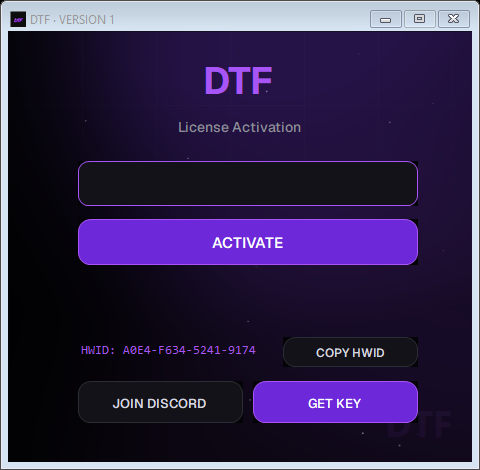
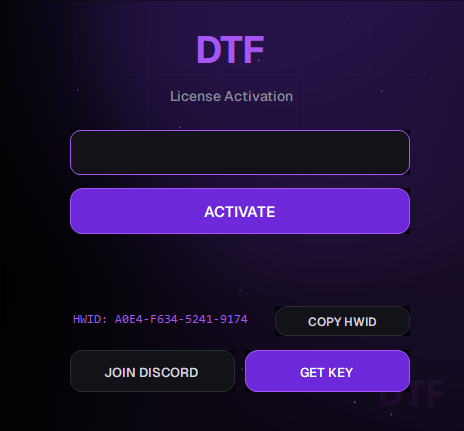
Showcase: cut the captured Windows chrome off the last two screens
Those two screenshots still carried the OS title bar and its 8px light frame,
which showed as a white border around an otherwise dark tile and made them the
odd ones out next to the four chrome-free panels. Cropped to the exact frame
insets (8px sides, 31px top, 8px bottom) and the declared sizes now match the
real pixels again, so nothing is stretched.

diff --git a/dtf.html b/dtf.html
@@ -96,7 +96,7 @@
           <span class="mock-label">DTF · Trace scanner</span>
           <span class="mock-pill"><span class="dot"></span> Trace scanner</span>
         </div>
-        <img src="screens/trace-scanner.png?v=3" width="760" height="640" alt="DTF trace scanner">
+        <img src="screens/trace-scanner.png?v=4" width="744" height="601" alt="DTF trace scanner">
         <div class="mock-foot">
           <span>Every file, registry entry and log</span>
           <span>Scanning</span>
@@ -168,8 +168,8 @@
       <figure class="shot rv"><img src="screens/network-browser.png?v=3" width="980" height="715" alt="Network &amp; Browser" loading="lazy"><figcaption class="cap"><b>Network &amp; Browser</b><span>Wipe DNS caches, histories and connection traces, one click each</span></figcaption></figure>
       <figure class="shot rv"><img src="screens/memory-tools.png?v=3" width="980" height="715" alt="Memory Tools" loading="lazy"><figcaption class="cap"><b>Memory Tools</b><span>Clean strings straight out of process memory: svchost, explorer, lsass</span></figcaption></figure>
       <figure class="shot rv"><img src="screens/advanced.png?v=3" width="980" height="715" alt="Advanced" loading="lazy"><figcaption class="cap"><b>Advanced</b><span>Deep cleanup for power users: timeline, GUIDs, USB traces, ETL logs</span></figcaption></figure>
-      <figure class="shot rv"><img src="screens/trace-scanner.png?v=3" width="760" height="640" alt="Trace Scanner" loading="lazy"><figcaption class="cap"><b>Trace Scanner</b><span>Type any name and DTF finds every leftover file, registry entry and log it left</span></figcaption></figure>
-      <figure class="shot rv"><img src="screens/license-gate.png?v=3" width="480" height="470" alt="License Activation" loading="lazy"><figcaption class="cap"><b>License Activation</b><span>Key-gated access with HWID lock: one licence, one PC, plus instant key requests in-app</span></figcaption></figure>
+      <figure class="shot rv"><img src="screens/trace-scanner.png?v=4" width="744" height="601" alt="Trace Scanner" loading="lazy"><figcaption class="cap"><b>Trace Scanner</b><span>Type any name and DTF finds every leftover file, registry entry and log it left</span></figcaption></figure>
+      <figure class="shot rv"><img src="screens/license-gate.png?v=4" width="464" height="431" alt="License Activation" loading="lazy"><figcaption class="cap"><b>License Activation</b><span>Key-gated access with HWID lock: one licence, one PC, plus instant key requests in-app</span></figcaption></figure>
     </div>
   </div>
 </section>
